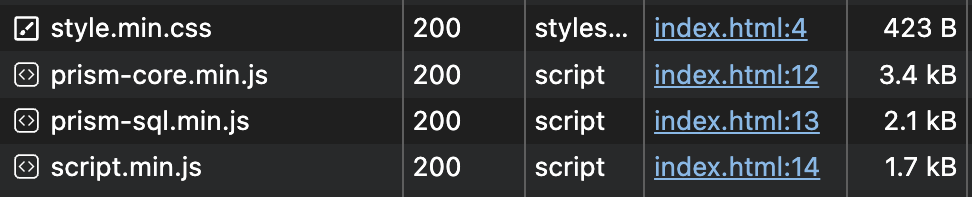
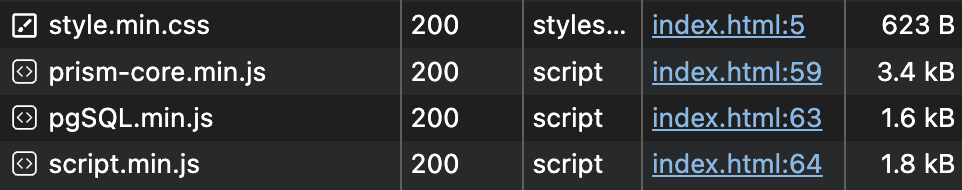
pgSQL module + horizontal scroll + firefox bug fix

diff --git a/index.html b/index.html
@@ -1,16 +1,67 @@
-<html>
-    <head>
+<!DOCTYPE html>
+<html lang="en">
+<head>
         <meta charset="UTF-8">
         <meta viewport="width=device-width, initial-scale=1.0">
         <link rel="stylesheet" href="style.min.css">
     </head>
     <body>
         <div id="container" class="container">
-            <textarea id="textarea" class="code" autocapitalize="off" autocomplete="off" autocorrect="off" spellcheck="false">SELECT * FROM tablename 
-WHERE id > 5;</textarea>
+            <textarea id="codeInput" class="code" autocapitalize="off" autocomplete="off" autocorrect="off" spellcheck="false">DO $$
+/* Объявление переменной для хранения минимальной зарплаты */
+DECLARE 
+    min_salary INT := 50000;
+BEGIN
+    -- Выбираем сотрудников с зарплатой выше минимальной
+    PERFORM
+    SELECT 
+        e.employee_id,  -- ID сотрудника
+        e.first_name || ' ' || e.last_name AS full_name,  -- Полное имя (в PostgreSQL используется || для конкатенации)
+        e.salary,  -- Зарплата сотрудника
+        UPPER(d.department_name) AS department_name,  -- Название отдела в верхнем регистре
+        LENGTH(e.email) AS email_length,  -- Длина email
+
+        /* Булево значение: проверка, работает ли сотрудник в IT */
+        CASE 
+            WHEN d.department_name LIKE 'IT%' THEN TRUE  -- LIKE для проверки на принадлежность отделу IT (начинается с IT)
+            ELSE FALSE  -- false
+        END AS is_it_department,  -- Проверка на отдел IT
+
+        /* CASE для определения, больше ли зарплата среднего значения по отделу */
+        CASE 
+            WHEN e.salary > (SELECT AVG(e2.salary) FROM employees e2 WHERE e2.department_id = e.department_id)
+            THEN 'Above average'  -- Если зарплата больше средней по отделу
+            ELSE 'Below average'  -- Если зарплата меньше или равна средней
+        END AS salary_comparison,  -- Сравнение зарплаты с средней по отделу
+
+        /* Проверка, входит ли сотрудник в конкретные отделы */
+        CASE 
+            WHEN e.department_id IN (1, 2, 3) THEN 'Key Departments'  -- Если отдел входит в указанный список
+            ELSE 'Other Departments'  -- Иначе это другой отдел
+        END AS department_type,
+
+        /* Проверка зарплаты через BETWEEN */
+        CASE 
+            WHEN e.salary BETWEEN 60000 AND 100000 THEN 'Mid Range Salary'  -- Если зарплата в диапазоне
+            ELSE 'Other Salary Range'  -- Иначе другой диапазон
+        END AS salary_range
+
+    FROM 
+        employees e
+    JOIN 
+        departments d ON e.department_id = d.department_id
+    WHERE 
+        e.salary IS NOT NULL  -- Проверяем, что зарплата не NULL
+        AND e.salary > min_salary  -- Фильтрация по минимальной зарплате
+    ORDER BY 
+        e.salary DESC;  -- Сортировка по убыванию зарплаты
+END $$;</textarea>
         </div>
         <script src="https://cdnjs.cloudflare.com/ajax/libs/prism/1.29.0/components/prism-core.min.js"></script>
-        <script src="https://cdnjs.cloudflare.com/ajax/libs/prism/9000.0.1/components/prism-sql.min.js"></script>
+        <!-- sql в prism - это правила T-SQL -->
+        <!-- <script src="https://cdnjs.cloudflare.com/ajax/libs/prism/9000.0.1/components/prism-sql.min.js"></script> -->
+        <!-- а меня интересует postgresql (написано при помощи chatgpt, вроде косяки выправил что были, но не уверен что всё на 100% good пока что) -->
+         <script src="pgSQL.min.js"></script>
         <script src="script.min.js"></script>
     </body>
 </html>

diff --git a/script.min.js b/script.min.js
@@ -1,1 +1,1 @@
-document.addEventListener("DOMContentLoaded",()=>{const p=document.getElementById("textarea");const e=document.getElementById("container");const n=document.createElement("pre");n.classList.add("mirror");e.appendChild(n);const t=()=>{const t=window.getComputedStyle(p);["border","fontFamily","fontSize","fontWeight","lineHeight","padding","margin","whiteSpace","wordWrap"].forEach(e=>n.style[e]=t[e]);n.style.borderColor="transparent"};const u=()=>{n.innerHTML=Prism.highlight(p.value+"\n",Prism.languages.sql,"sql");n.scrollTop=p.scrollTop};const h=e=>{document.execCommand("insertText",false,e)};const l=()=>{const e=p.selectionStart;const t=p.selectionEnd;const n=p.value;const s=n.substring(0,e);console.log("beforeCursor:",s);const o=n.substring(t);const c=s.lastIndexOf("\n")+1;const l=o.indexOf("\n")!==-1?t+o.indexOf("\n"):n.length;const i=n.substring(c,l).split("\n");const r=i.every(e=>e.trim().startsWith("--"));let a="";let d=0;if(r){a=i.map(e=>e.replace(/^--\s?/,"")).join("\n");d=-3}else{a=i.map(e=>`-- ${e}`).join("\n");d=3}const g=i.length;p.setSelectionRange(c,l);h(a);const f=e+d;const m=t+d*g;p.setSelectionRange(f,m);u()};p.addEventListener("keydown",e=>{if((e.ctrlKey||e.metaKey)&&e.key==="/"){e.preventDefault();l()}if(e.key==="Tab"&&!e.shiftKey){e.preventDefault();const t=p.selectionStart;const n=p.selectionEnd;h("    ");p.setSelectionRange(t+4,t+4)}if(e.key==="Tab"&&e.shiftKey){e.preventDefault();const t=p.selectionStart;const s=p.value;const o=s.lastIndexOf("\n",t-1)+1;const c=s.substring(o,t);if(c.endsWith("    ")){p.setSelectionRange(o+c.length-4,t);h("");p.setSelectionRange(t-4,t-4)}}});p.addEventListener("input",u);p.addEventListener("scroll",()=>n.scrollTop=p.scrollTop);t();u()});
+document.addEventListener("DOMContentLoaded",()=>{const u=document.getElementById("codeInput");const e=document.getElementById("container");const n=document.createElement("pre");n.classList.add("mirror");e.appendChild(n);const t=()=>{const t=window.getComputedStyle(u);["border","fontFamily","fontSize","fontWeight","lineHeight","padding","borderRadius","wordWrap","whiteSpace"].forEach(e=>n.style[e]=t[e]);n.style.borderColor="transparent"};const m=()=>{n.innerHTML=Prism.highlight(u.value+"\n",Prism.languages.sql,"sql");n.scrollTop=u.scrollTop};const h=e=>{document.execCommand("insertText",false,e)};const c=()=>{const e=u.selectionStart;const t=u.selectionEnd;const n=u.value;const s=n.substring(0,e);console.log("beforeCursor:",s);const o=n.substring(t);const l=s.lastIndexOf("\n")+1;const c=o.indexOf("\n")!==-1?t+o.indexOf("\n"):n.length;const i=n.substring(l,c).split("\n");const r=i.every(e=>e.trim().startsWith("--"));let a="";let d=0;if(r){a=i.map(e=>e.replace(/^--\s?/,"")).join("\n");d=-3}else{a=i.map(e=>`-- ${e}`).join("\n");d=3}const g=i.length;u.setSelectionRange(l,c);h(a);const f=e+d;const p=t+d*g;u.setSelectionRange(f,p);m()};u.addEventListener("keydown",e=>{if((e.ctrlKey||e.metaKey)&&e.key==="/"){e.preventDefault();c()}if(e.key==="Tab"&&!e.shiftKey){e.preventDefault();const t=u.selectionStart;const n=u.selectionEnd;h("    ");u.setSelectionRange(t+4,t+4)}if(e.key==="Tab"&&e.shiftKey){e.preventDefault();const t=u.selectionStart;const s=u.value;const o=s.lastIndexOf("\n",t-1)+1;const l=s.substring(o,t);if(l.endsWith("    ")){u.setSelectionRange(o+l.length-4,t);h("");u.setSelectionRange(t-4,t-4)}}});u.addEventListener("input",m);u.addEventListener("scroll",()=>{n.scrollTop=u.scrollTop;n.scrollLeft=u.scrollLeft;m()});t();m()});

diff --git a/style.css b/style.css
@@ -4,25 +4,44 @@
 
 .container {
     position: relative;
-    width: fit-content;
+    width: 600px;
+    height: 200px;
 }
 
 .code {
     resize: none;
-    width: 500px;
-    height: 150px;
+    width: 100%;
+    height: 100%;
 
     margin: 0;
     padding: 15px;
     line-height: 1.5rem;
-    font-size: 1.25rem;
-    white-space: pre-wrap;
+    font-size: 1.1rem;
+    white-space: pre; /* Запрещаем перенос строк */
+    word-wrap: normal; /* Предотвращаем автоматический перенос слов */
 
-    background: transparent;
-    position: relative;
+    /* Отключаем эластичную прокрутку (оттягивание после максимальной прокрутки) */
+    overscroll-behavior: contain;
+    /* Отключаем плавную прокрутку. хотя вроде не влияет, но пусть будет */
+    scroll-behavior:auto; 
+    /* на firefox (на macos) прокрутка от краёв никак не синхронизируется и чисто визуально расходится */
+    /* так что решение №1) color: transparent; caret-color: xxx. Минус: цвет каретки под dark-reader и light/dark темы фиг подгонишь */
+    /* color: transparent;   */
+    /* caret-color: #ffcc00; */
+
+    /* решение №2) говорим firefox что заполнение текст не будет. минусов не будет. */
+    -webkit-text-fill-color: transparent;
+
+
+    outline: none;
+    border: 1px solid #80808040;
+
+    &:focus {
+        box-shadow: 0 0 5px #80808080; /* Добавляем тень */
+    }
 }
 
-/* невимая часть, которая всё подсвечивает находясь над textarea */
+/* невидимая часть, которая всё подсвечивает находясь над textarea */
 .mirror {
     position: absolute;
     top: 0;
@@ -38,20 +57,22 @@
     }
 
     & .string {
-        color: green;
+        color: #7ac44d;
     }
 
     & .keyword {
-        color:dodgerblue;
+        color: #478cd5;
     }
 
     & .function {
-        color:sandybrown;
+        color: #dd9672;
     }
 
-    & .variable {}
-    & .punctuation {}
-    & .number {}
-    & .operator {}
-    & .boolean {}
+    & .operator {
+        color:#BC89BD;
+    }
+    
+    & .boolean {
+        color: #e2c85d;
+    }
 }

diff --git a/pgSQL.js b/pgSQL.js
@@ -1,0 +1,9 @@
+Prism.languages.sql = {
+  comment: /(^|[^\\])(\/\*[\w\W]*?\*\/|((--)|#).*?(\r?\n|$))/,
+  string: /("|')(\\?[\s\S])*?\1/,
+  function: /\b(?:COUNT|SUM|AVG|MIN|MAX|NOW|COALESCE|GREATEST|LEAST|LENGTH|SUBSTRING|UPPER|LOWER|TO_CHAR|TO_DATE|AGE|EXTRACT|ROUND|TRIM|RANK|DENSE_RANK|ROW_NUMBER|ARRAY_AGG|STRING_AGG|DATE_PART|DATE_TRUNC|RANDOM|GENERATE_SERIES|SETVAL|NEXTVAL|CURRVAL|ARRAY_LENGTH)(?=\s*\()/i,
+  boolean: /\b(?:TRUE|FALSE|NULL)\b/i,
+  keyword: /\b(?:ABORT|ABS|ACTION|ADD|AFTER|AGGREGATE|ALTER|ANALYZE|ARRAY|AS|ASC|ASSERT|ASSIGN|AT|BEGIN|BETWEEN|BIGINT|BOOLEAN|BY|CASE|CAST|CHECK|COLLATE|COLUMN|COMMENT|COMMIT|CONFLICT|CONSTRAINT|CREATE|CROSS|CURRENT|CURRENT_CATALOG|CURRENT_DATE|CURRENT_ROLE|CURRENT_TIME|CURRENT_TIMESTAMP|CURRENT_USER|DECLARE|DEFAULT|DELETE|DESC|DISTINCT|DO|DROP|ELSE|END|EXCEPT|EXISTS|EXPLAIN|FETCH|FILTER|FOR|FOREIGN|FROM|FULL|GRANT|GROUP|HAVING|INNER|INSERT|INT|INTO|JOIN|LEFT|LIMIT|LOCK|LOOP|NATURAL|OFFSET|ON|ORDER|OUTER|OVER|PERFORM|PLPGSQL|PRIMARY|RAISE|REFERENCES|RETURN|RETURNING|REVOKE|RIGHT|ROLLBACK|ROW|ROWS|SELECT|SERIAL|SET|SHOW|SIMILAR|SOME|TABLE|THEN|TO|TRANSACTION|TRUNCATE|UNION|UNIQUE|UNNEST|UPDATE|USING|VALUES|VARIADIC|VIEW|WHEN|WHERE|WITH|WORK|WINDOW|LANGUAGE|VOLATILE|STABLE|IMMUTABLE|STRICT|SECURITY|DEFINER|INVOKER|EXECUTE|USAGE|SMALLINT|DECIMAL|NUMERIC|REAL|DOUBLE PRECISION|VARCHAR|TEXT|DATE|TIME|TIMESTAMP|INTERVAL|UUID|JSON|XML)\b/i,  number: /\b-?(0x)?\d*\.?[\da-f]+\b/,
+  operator: /:=|::|\|\||->>|->|@>|<@|&&|\?|:=|->>|->|\+|-|\*|\/|%|~|!=|<>|<=|>=|<|>|\^|&|\||!|\b(?:IS DISTINCT FROM|IS NOT DISTINCT FROM|LIKE|ILIKE|NOT|SIMILAR TO|IS|IN|ANY|ALL|AND|OR|BETWEEN|OVERLAPS|UNIQUE)\b/i,
+  punctuation: /[;[\]()`,.]/
+};

diff --git a/script.js b/script.js
@@ -1,5 +1,9 @@
+/* 
+подсветка sql кода самодельная
+*/
+
 document.addEventListener('DOMContentLoaded', () => {
-    const textarea = document.getElementById('textarea');
+    const textarea = document.getElementById('codeInput');
     const container = document.getElementById('container');
     
     const mirror = document.createElement('pre');
@@ -9,7 +13,7 @@ document.addEventListener('DOMContentLoaded', () => {
     // Функция копирования стилей
     const copyStyles = () => {
         const styles = window.getComputedStyle(textarea);
-        ['border', 'fontFamily', 'fontSize', 'fontWeight', 'lineHeight', 'padding', 'margin', 'whiteSpace', 'wordWrap']
+        ['border', 'fontFamily', 'fontSize', 'fontWeight', 'lineHeight', 'padding', 'borderRadius', 'wordWrap', 'whiteSpace']
             .forEach((prop) => mirror.style[prop] = styles[prop]);
         mirror.style.borderColor = 'transparent';
     };
@@ -122,8 +126,11 @@ document.addEventListener('DOMContentLoaded', () => {
 
     // Подписка на события
     textarea.addEventListener('input', syncMirror);
-    textarea.addEventListener('scroll', () => mirror.scrollTop = textarea.scrollTop);
-
+    textarea.addEventListener('scroll', () => {
+        mirror.scrollTop = textarea.scrollTop;   // Синхронизация вертикальной прокрутки
+        mirror.scrollLeft = textarea.scrollLeft; // Синхронизация горизонтальной прокрутки
+        syncMirror();                            // Обновление подсветки
+    });
     
 
     // Инициализация

diff --git a/pgSQL.min.js b/pgSQL.min.js
@@ -1,0 +1,1 @@
+Prism.languages.sql={comment:/(^|[^\\])(\/\*[\w\W]*?\*\/|((--)|#).*?(\r?\n|$))/,string:/("|')(\\?[\s\S])*?\1/,"function":/\b(?:COUNT|SUM|AVG|MIN|MAX|NOW|COALESCE|GREATEST|LEAST|LENGTH|SUBSTRING|UPPER|LOWER|TO_CHAR|TO_DATE|AGE|EXTRACT|ROUND|TRIM|RANK|DENSE_RANK|ROW_NUMBER|ARRAY_AGG|STRING_AGG|DATE_PART|DATE_TRUNC|RANDOM|GENERATE_SERIES|SETVAL|NEXTVAL|CURRVAL|ARRAY_LENGTH)(?=\s*\()/i,"boolean":/\b(?:TRUE|FALSE|NULL)\b/i,keyword:/\b(?:ABORT|ABS|ACTION|ADD|AFTER|AGGREGATE|ALTER|ANALYZE|ARRAY|AS|ASC|ASSERT|ASSIGN|AT|BEGIN|BETWEEN|BIGINT|BOOLEAN|BY|CASE|CAST|CHECK|COLLATE|COLUMN|COMMENT|COMMIT|CONFLICT|CONSTRAINT|CREATE|CROSS|CURRENT|CURRENT_CATALOG|CURRENT_DATE|CURRENT_ROLE|CURRENT_TIME|CURRENT_TIMESTAMP|CURRENT_USER|DECLARE|DEFAULT|DELETE|DESC|DISTINCT|DO|DROP|ELSE|END|EXCEPT|EXISTS|EXPLAIN|FETCH|FILTER|FOR|FOREIGN|FROM|FULL|GRANT|GROUP|HAVING|INNER|INSERT|INT|INTO|JOIN|LEFT|LIMIT|LOCK|LOOP|NATURAL|OFFSET|ON|ORDER|OUTER|OVER|PERFORM|PLPGSQL|PRIMARY|RAISE|REFERENCES|RETURN|RETURNING|REVOKE|RIGHT|ROLLBACK|ROW|ROWS|SELECT|SERIAL|SET|SHOW|SIMILAR|SOME|TABLE|THEN|TO|TRANSACTION|TRUNCATE|UNION|UNIQUE|UNNEST|UPDATE|USING|VALUES|VARIADIC|VIEW|WHEN|WHERE|WITH|WORK|WINDOW|LANGUAGE|VOLATILE|STABLE|IMMUTABLE|STRICT|SECURITY|DEFINER|INVOKER|EXECUTE|USAGE|SMALLINT|DECIMAL|NUMERIC|REAL|DOUBLE PRECISION|VARCHAR|TEXT|DATE|TIME|TIMESTAMP|INTERVAL|UUID|JSON|XML)\b/i,number:/\b-?(0x)?\d*\.?[\da-f]+\b/,operator:/:=|::|\|\||->>|->|@>|<@|&&|\?|:=|->>|->|\+|-|\*|\/|%|~|!=|<>|<=|>=|<|>|\^|&|\||!|\b(?:IS DISTINCT FROM|IS NOT DISTINCT FROM|LIKE|ILIKE|NOT|SIMILAR TO|IS|IN|ANY|ALL|AND|OR|BETWEEN|OVERLAPS|UNIQUE)\b/i,punctuation:/[;[\]()`,.]/};

diff --git a/style.min.css b/style.min.css
@@ -1,1 +1,1 @@
-*{box-sizing:border-box}.container{position:relative;width:fit-content}.code{resize:none;width:500px;height:150px;margin:0;padding:15px;line-height:1.5rem;font-size:1.25rem;white-space:pre-wrap;background:transparent;position:relative}.mirror{position:absolute;top:0;left:0;height:100%;width:100%;margin:0;overflow:hidden;pointer-events:none;& .comment{color:grey}& .string{color:green}& .keyword{color:dodgerblue}& .function{color:sandybrown}}
+*{box-sizing:border-box}.container{position:relative;width:600px;height:200px}.code{resize:none;width:100%;height:100%;margin:0;padding:15px;line-height:1.5rem;font-size:1.1rem;white-space:pre;word-wrap:normal;overscroll-behavior:contain;scroll-behavior:auto;-webkit-text-fill-color:#fff0;outline:none;border:1px solid #80808040;&:focus{box-shadow:0 0 5px #80808080}}.mirror{position:absolute;top:0;left:0;height:100%;width:100%;margin:0;overflow:hidden;pointer-events:none;& .comment{color:grey}& .string{color:#7ac44d}& .keyword{color:#478cd5}& .function{color:#dd9672}& .operator{color:#BC89BD}& .boolean{color:#e2c85d}}

diff --git a/README.md b/README.md
@@ -7,7 +7,7 @@
 
 <details>
 <summary>
-<picture><img src="https://img.shields.io/badge/общий вес-7.7kB-blue.svg"></picture>
+<picture><img src="https://img.shields.io/badge/общий вес-7.5kB-blue.svg"></picture>
 </summary>
 <!-- Разграничитель -->
   <picture>
@@ -16,9 +16,7 @@
     <img height="0.8">
   </picture>
 
-  Из которых 5.5kB это prism (хоть на сайте и говорится про 2-2.5kb, ага)
-
-  Но всяко лучше, чем например <a href="https://highlightjs.org/">higlihts.js</a> с их .min весом 36kB. И это только для подсветки, мдыы...
+  Всяко лучше, чем например <a href="https://highlightjs.org/">higlihts.js</a> с их .min весом 36kB. И это только для подсветки, мдыы...
   
   Вес всех файлов после минификаций:
 
@@ -45,19 +43,45 @@
 - Поддержка <kbd>Tab</kbd> и <kbd>Shift+Tab</kbd>
 - Поддержка undo/redo. <sub>Хоть и за счёт использования execCommand, который считается deprecated. Однако аналогов пока нет (<a href="https://github.com/fregante/indent-textarea/issues/30">подробнее</a>). А свою микросистему с памятью через самодельный стек сомнительно внедрять...</sub>
 - Поддержка resize <sub>(убери resize:none из css)</sub>
-- Богатая система типов:
+- Богатая система классификации:
 
 | Класс            | Что это             | Пример(sql) |
 |------------------|---------------------|-------------|
 | `.comment`       | Комментарии         | --abc       |
 | `.string`        | Строки              | "abc"       |
 | `.keyword`       | Ключевые слова      | SELECT      |
-| `.variable`      | Переменные          | @age        |
-| `.punctuation`   | Пунктуация          | ()          |
+| `.punctuation`   | Пунктуация          | ;           |
 | `.number`        | Числа               | 123         |
 | `.operator`      | Оператор            | BETWEEN     |
 | `.boolean`       | Булевое значение    | FALSE       |
 | `.function`      | Функции             | COUNT(      |
+
+❗ Но есть и множество других классов, например 
+
+```css
+.url, .property, .selector, .rule {/* в css, например */}
+
+.class-name, .regex {/* js. у regex кста есть и вложенные классы :) */}
+
+.attr-value, .attr-name {/* svg */}
+```
+
+> [!IMPORTANT]
+> js подключается как clike+js
+> ```html
+><script src="https://cdnjs.cloudflare.com/ajax/libs/prism/9000.0.1/components/prism-clike.min.js"></script>
+><script src="https://cdnjs.cloudflare.com/ajax/libs/prism/9000.0.1/components/prism-javascript.min.js"></script>
+> ```
+>
+> об этом можно легко понять глянув на первые символы `prism-javascript.min.js`:
+> ```text
+> Prism.languages.javascript=Prism.languages.extend("clike"...)
+> ```
+
+---
+
+так как sql модуль prism это не про postgresql, то создал свой модуль `pgSQL.js` с регулярками через chatgpt, ошибки вроде выправил, но не факт что всё 100% идеально.
+
 ---
 
 ###### js uglified via https://www.uglifyjs.net/
